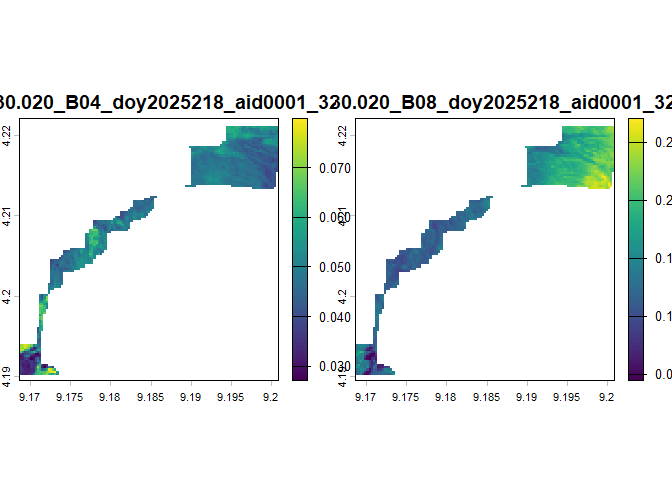
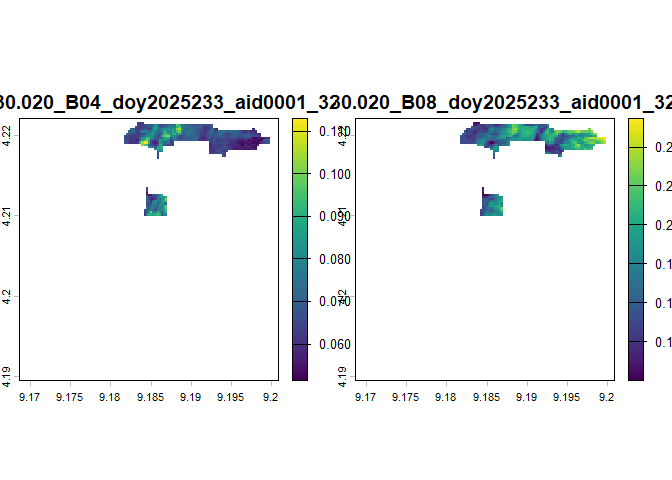
na.rm added to reducer functions

diff --git a/README.md b/README.md
@@ -111,7 +111,7 @@ hlsmanager::auto_group("C:/Users/miles/OneDrive/Dokumente/EAGLE/karlakolumna/tif
 # In this case, the scene from 2025 doy 228 has only 2 bands and is therefore missing one. 
 ```
 
-## 4. Using automask to cloudmask the grouped data
+## 4. Using auto_mask to cloudmask the grouped data
 
 ``` r
 
@@ -123,7 +123,7 @@ hlsmanager::auto_mask("C:/Users/miles/OneDrive/Dokumente/EAGLE/karlakolumna/grou
 #> [1] "C:/Users/miles/OneDrive/Dokumente/EAGLE/karlakolumna/masked/MASKED_HLS_STACK_2025_243_B04-B08-Fmask.tif was filtered and saved."
 #> [1] "MASKING FINISHED."
 
-terra::plot(terra::rast(list.files("C:/Users/miles/OneDrive/Dokumente/EAGLE/karlakolumna/masked", full.names=T)[1])[[1:2]])
+terra::plot(terra::rast(list.files("C:/Users/miles/OneDrive/Dokumente/EAGLE/karlakolumna/masked", full.names=T)[3])[[1:2]])
 ```
 
 <img src="man/figures/README-unnamed-chunk-5-1.png" alt="" width="100%" />
@@ -152,7 +152,7 @@ reducer(215, 280, 10, reducer = "mean", "C:/Users/miles/OneDrive/Dokumente/EAGLE
 #> 
 #> [1] "FUNCTION ENDED SUCCESFULLY.\n\n"
 
-terra::plot(terra::rast(list.files("C:/Users/miles/OneDrive/Dokumente/EAGLE/karlakolumna/mean", full.names = T)[1]))
+terra::plot(terra::rast(list.files("C:/Users/miles/OneDrive/Dokumente/EAGLE/karlakolumna/mean", full.names = T)[2]))
 ```
 
 <img src="man/figures/README-unnamed-chunk-6-1.png" alt="" width="100%" />
